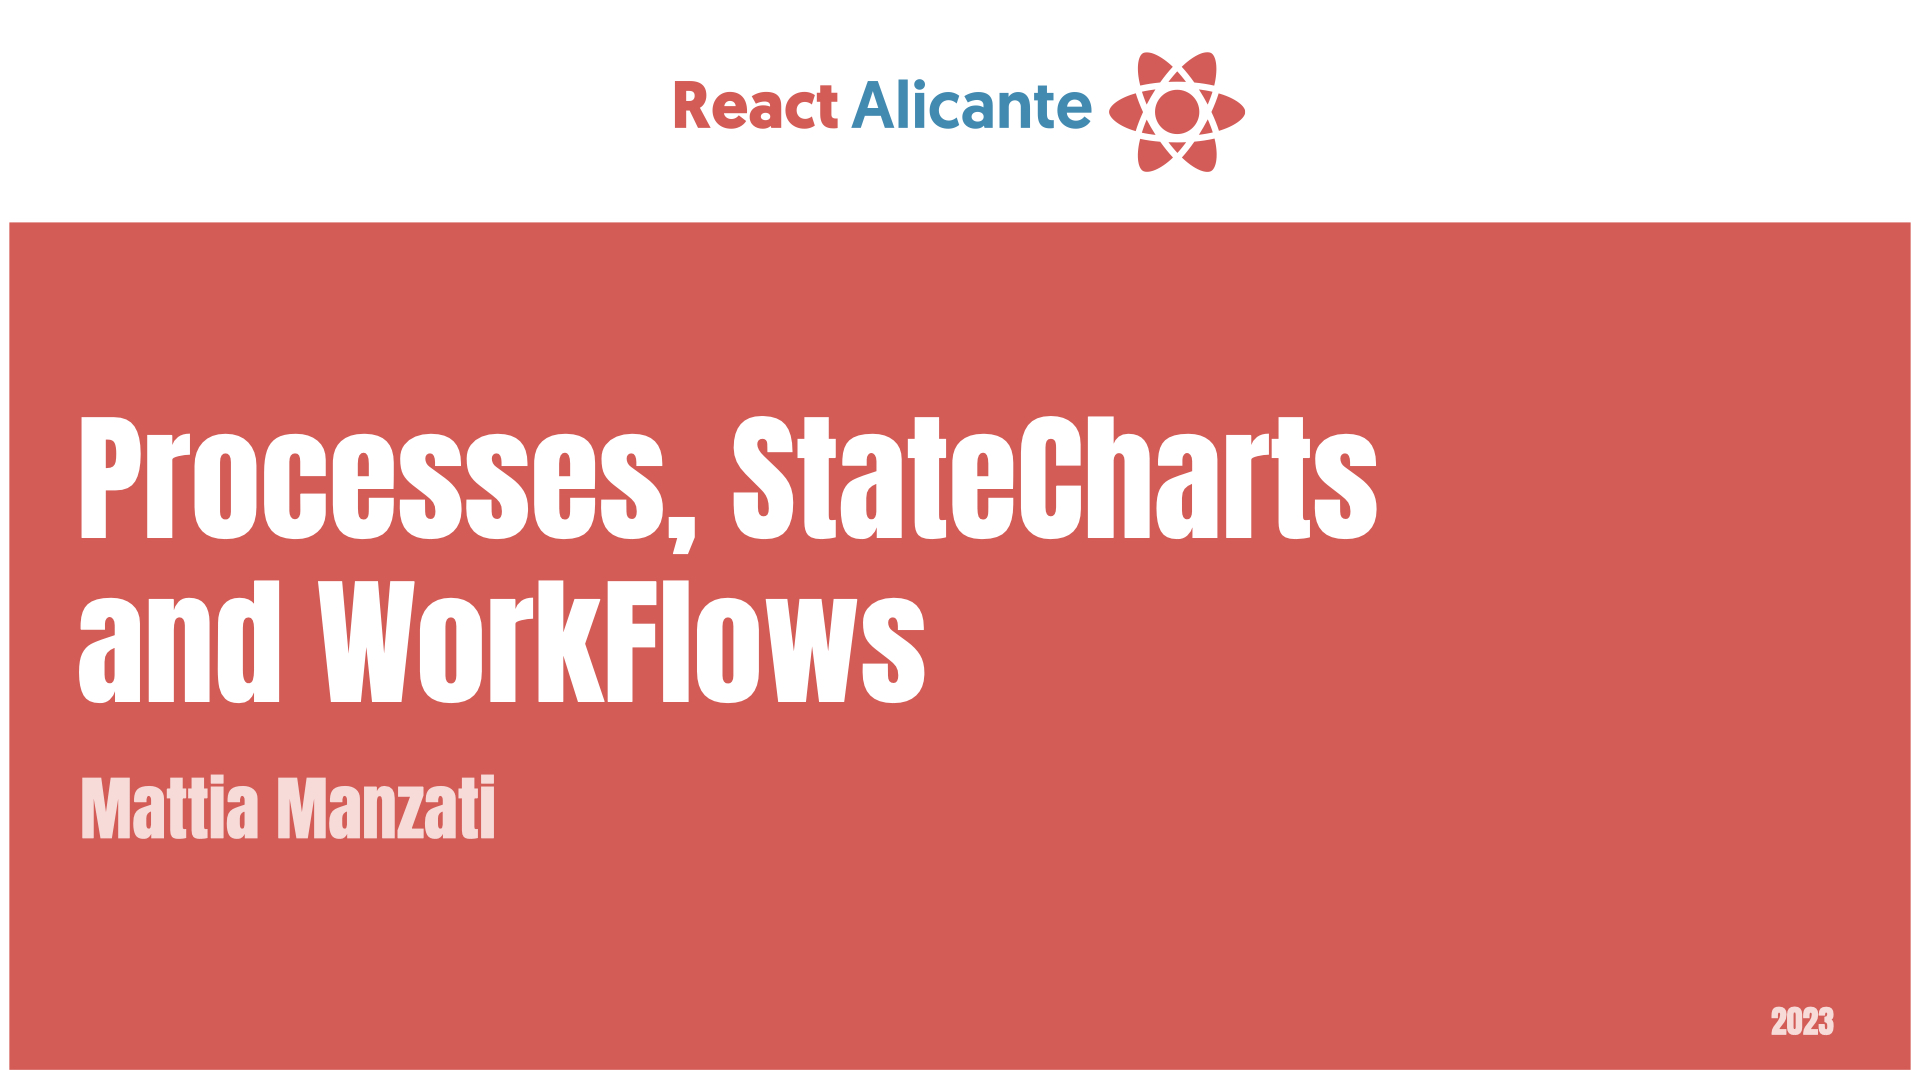
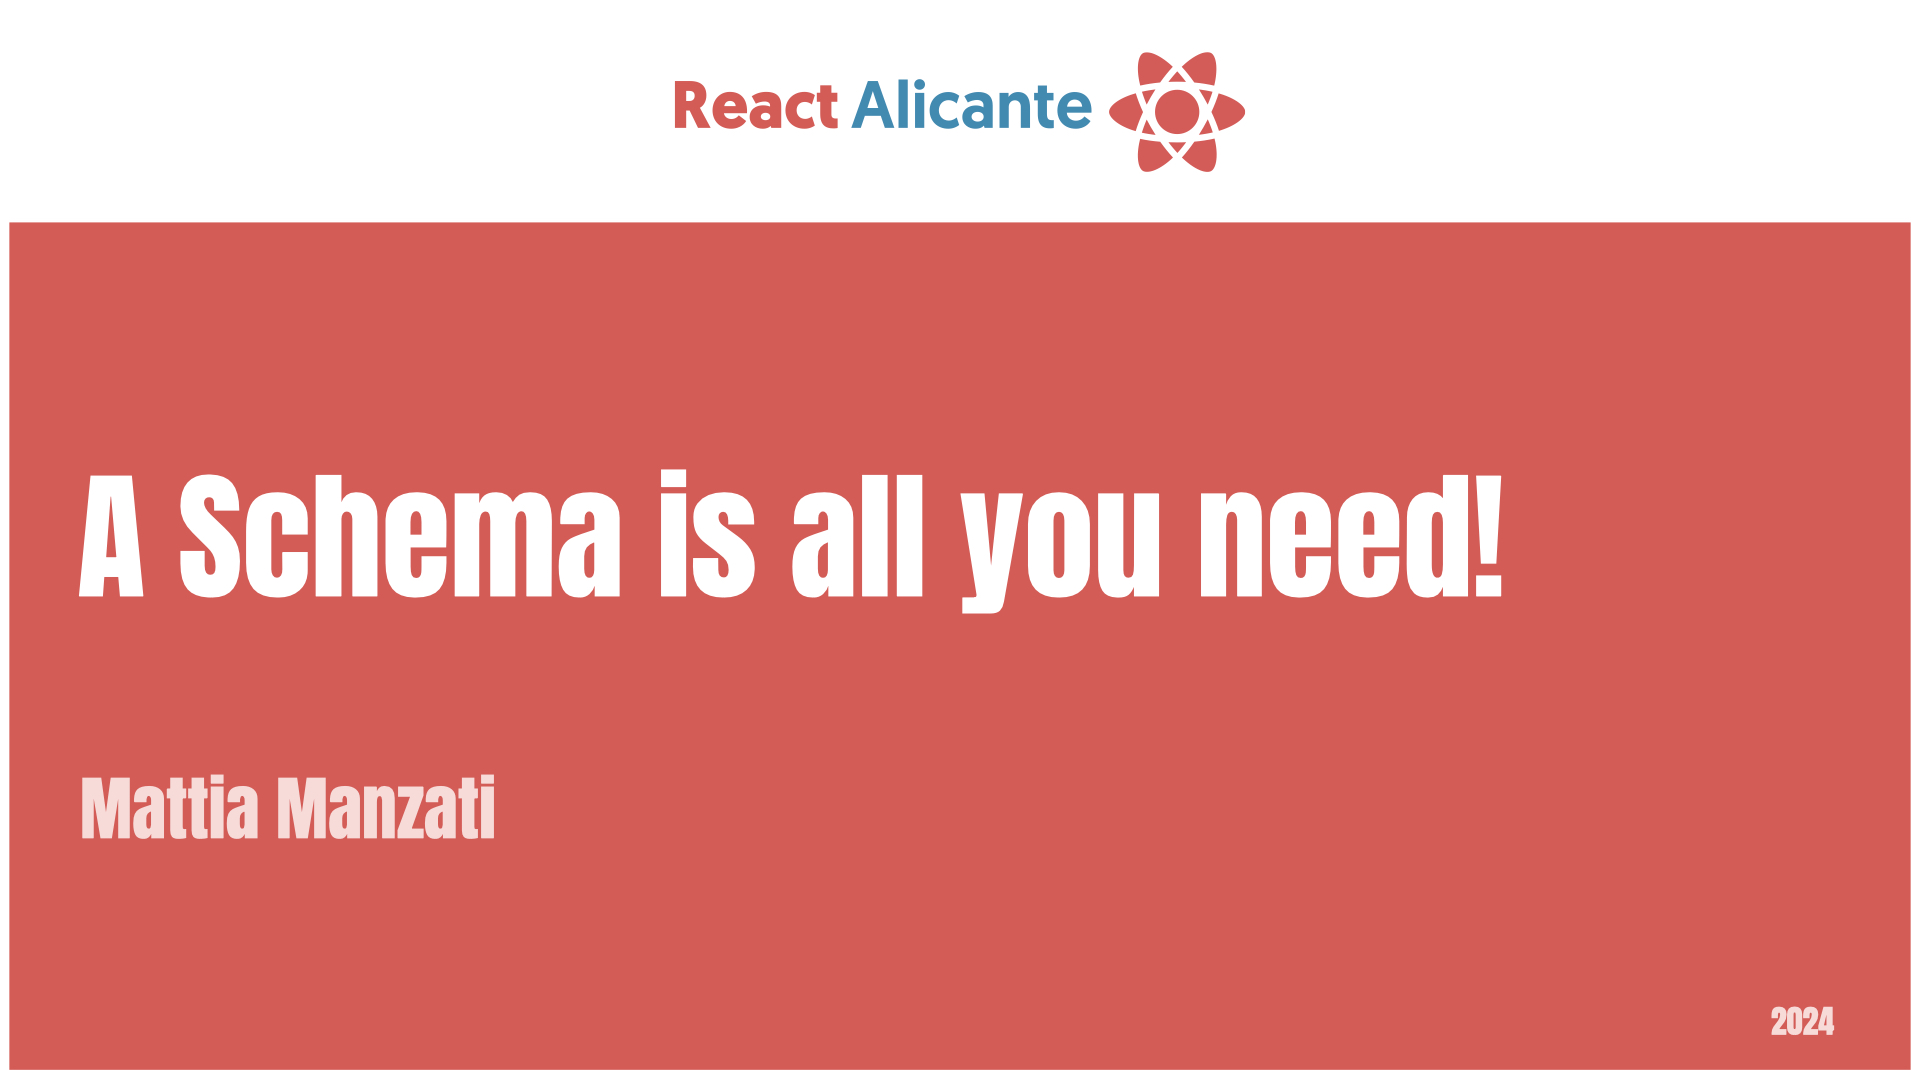
progress

Changed region(s): [[0.0312, 0.3667, 0.7812, 0.6722]]

diff --git a/slides.md b/slides.md
@@ -10,9 +10,10 @@ title: A Schema is all you need!
 mdc: true
 download: true
 canvasWidth: 850
+layout: image
+image: /image-cover.jpeg
 ---
 
-## A Schema is all you need!
 
 ---
 layout: fact
@@ -37,47 +38,109 @@ image: /image-me.jpg
 
 ---
 
-<<< @/some-file.ts {monaco-run}
+# Today's agenda
+
+
+---
+layout: fact
+---
+
+# We ❤ TS 
 
 <!--
 I do not need to convince you that types are great.
 Maybe we took few years to realize that, but thanks to tools like TypeScript that brought a type system into JavaScript, we were able to step up our codebases and finally build production grade applications in JavaScript.
 
-And the more the typings are well written and strict, the more our code becames robust.
+And the more the typings are well written and strict, the more our code becames robust, and we can develop our application based on some assumptions of how data is defined.
+-->
 
-And is all nice and clean, but eventually we compile our code to deploy it and... types are gone.
-Everything can happen.
-Is that a problem of TypeScript's type getting removed while compiling?
+---
+layout: fact
+---
 
-Unfortunately that's not it. The problem is that our programs do not live in a black box.
-They usually reach the outside world for data, and as soon we do that, every assumption made while defining our strict types at compile time goes away.
-And every application eventually has eventually to fetch data from some kind of persistence or api.
+# The outside world is scary
 
-And to solve this, we add into our codebase libraries such as zod that perform data validation of the
-response that cames from the storage or the APIs.
+<!--
+Unfortunately eventually we reach a point were we cannot make strict type definitions anymore.
+They eventually have to reach the outside world for data, and as soon we do that, every assumption made while defining our strict types at compile time goes away.
+And this is not restricted to interacting with network APIs, this applies as well when you have to fetch data back from some kind of storage.
 
-So we introduce tools like zod and now we are able to successfully pare any incoming data and validate
-it against our schema.
+Even though we may manage the storage of our application ourself, are we sure that the data we persist has'nt been corrupted or is somehow incompatible with our newest application update?
+-->
 
--- example rewritten using zod
+---
 
-Our code changed a little but yeah, it works!
+# Data Validation Libraries
 
+<!--
+To solve this problem we have a lot of libraries like zod and others that solve this problem.
+Given any unknown data that may come from the wire or the storage, they perform validation and ensure the shape of the data is exactly the one we expect.
+Sure those are an additional dependency, but they make our application definetely more robust and less prone to fail due to malformed inputs.
+-->
+
+---
+
+# Here's zod
+
+<!--
+So here it is our updated example, you'll notice that to avoid defining twice the shape of the data most of validation libraries take advantage of TypeScript's infer to derive the typescript types from a runtime definition.
+And that is because to perform validation we need a runtime function to do that, and since typescript's type get compiled away, we need to use a javascript value as source of defining the data shape.
+-->
+---
+
+# Encoding back
+
+<!--
 So what happens now that we have validated our incoming API data?
-Seems odd, but most of the times you also have to send back data to other API or persist it back to some kind of storage.
+Seems odd, but most of the time you fetch something from the storage, you'll have eventually to write it back into persistence with updated data.
 
-The problem with most data validation and trasformation libraries out there is they just do input validation!
+And unfortunately, that is out of scope for most data validation libraries. They only focus on input validation!
+-->
+---
+
+# Manual encoding
+
+<!--
+So zod won't be of any help here, we need to write additional code that given our data, produces back something that's accepted by our storage or APIs.
+Ok, now that's not clean and small code as we had before, but hey, it works! So why should we bother about it?
+-->
+---
+
+# Ensuring output is still valid
+
+DB -> parse -> Todo -> encode -> Todo
+
+<!--
+Well, maybe we should care about it.
+If we are reading data from the storage, updating it, and then encoding it back, we need to ensure that given any data, we are able to persist it again.
+This may seem trivial, but we basically have added a cost of defining manually a function, and always ensure that for any value we can encode it, and given the output validate it back again ensuring that the output is the same as the initial input.
+This function is one of the critical point of our application, doing it wrong may result in unexpected user data loss.
+-->
+---
+
+# Property based testing
+
+<!--
+And guess what? 
+One way of being sure that we succefully implemented that encode function for every value is through something called "property based testing", where instead of testing a function with a given user value, we describe the properties we expect from that encode function.
+Defining the property we want is pretty easy, we want that given User value we are able to encode it, and then restore it again from the encoded version.
+But to do that we need to tell the property based testing framework how to generate valid user objects.
+-->
+
+---
+
+# 
+
+<!--
+We're stuck in a loop. To safely parse and encode back data, we need information about how data is structured.
+And there may be other requirements as well, let's say our app exposes some REST APIs, ho we may create the JSON schemas for the input of our APIs?
+This is kinda absurd, because we know how the data is shaped, so maybe there's a better way to solve this rather then repeating ourself twenty times.
+
+
 They focus on ensuring an input value, which most of library defaulted to unknown, and turn it into a structure defined at runtime, but they miss completely turning it back to the input type.
 
-So zod won't be of any help here, we need to write additional code that given our data, produces back something that's accepted by our storage or APIs.
-
--- example code with zod + manual encoding
-
-Ok, now that's not clean and small code as we had before, but hey, it works! So why should we bother about it?
 
 -- adding property based testing
-Ok so maybe we should care about it. I heard this fancy thing called property based testing, so maybe we can leverage that
-to test our implementations and test if data is stored and handled the way we want.
 
 -- generating json schemas
 Now the impossible happens.
@@ -95,6 +158,10 @@ Sure, we can't use TypeScript anymore since we now need to perform stuff at vali
 
 Turns out the solution was always just under our nose.
 What if instead of creating a solution specific for validation/encoding/arbitraries and json schema we instead focus on defining a runtime something that can be described by a TypeScript's type?
+
+-- the problem with validate
+Let's have a look at the type signature of a function that validates our data that comes from the wire.
+Most of validation libraries out there focus on starting from something unknown and turning it into our data structure.
 
 -- effect schema
 
